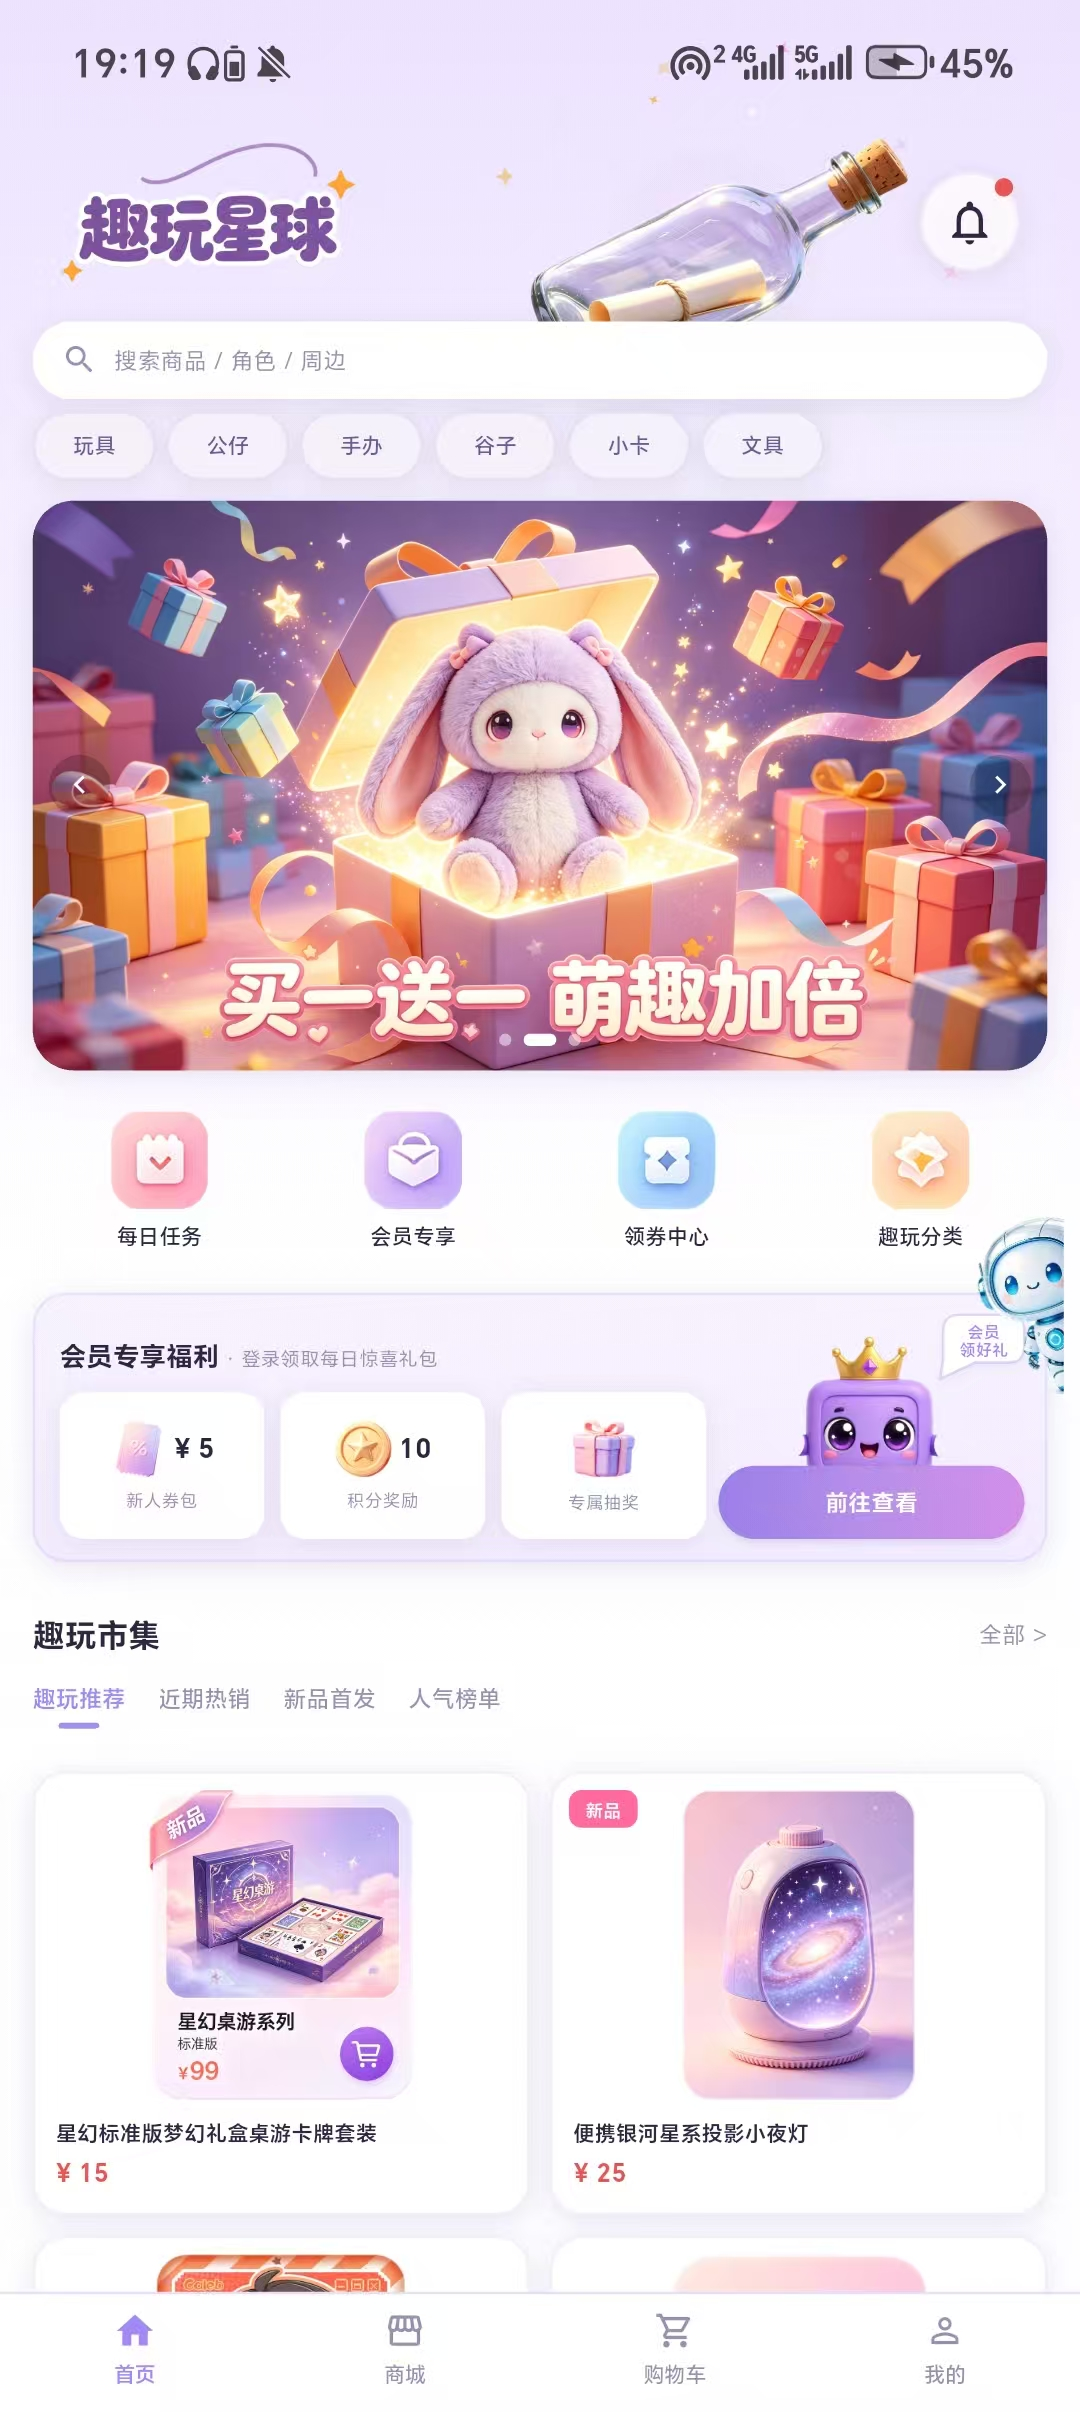
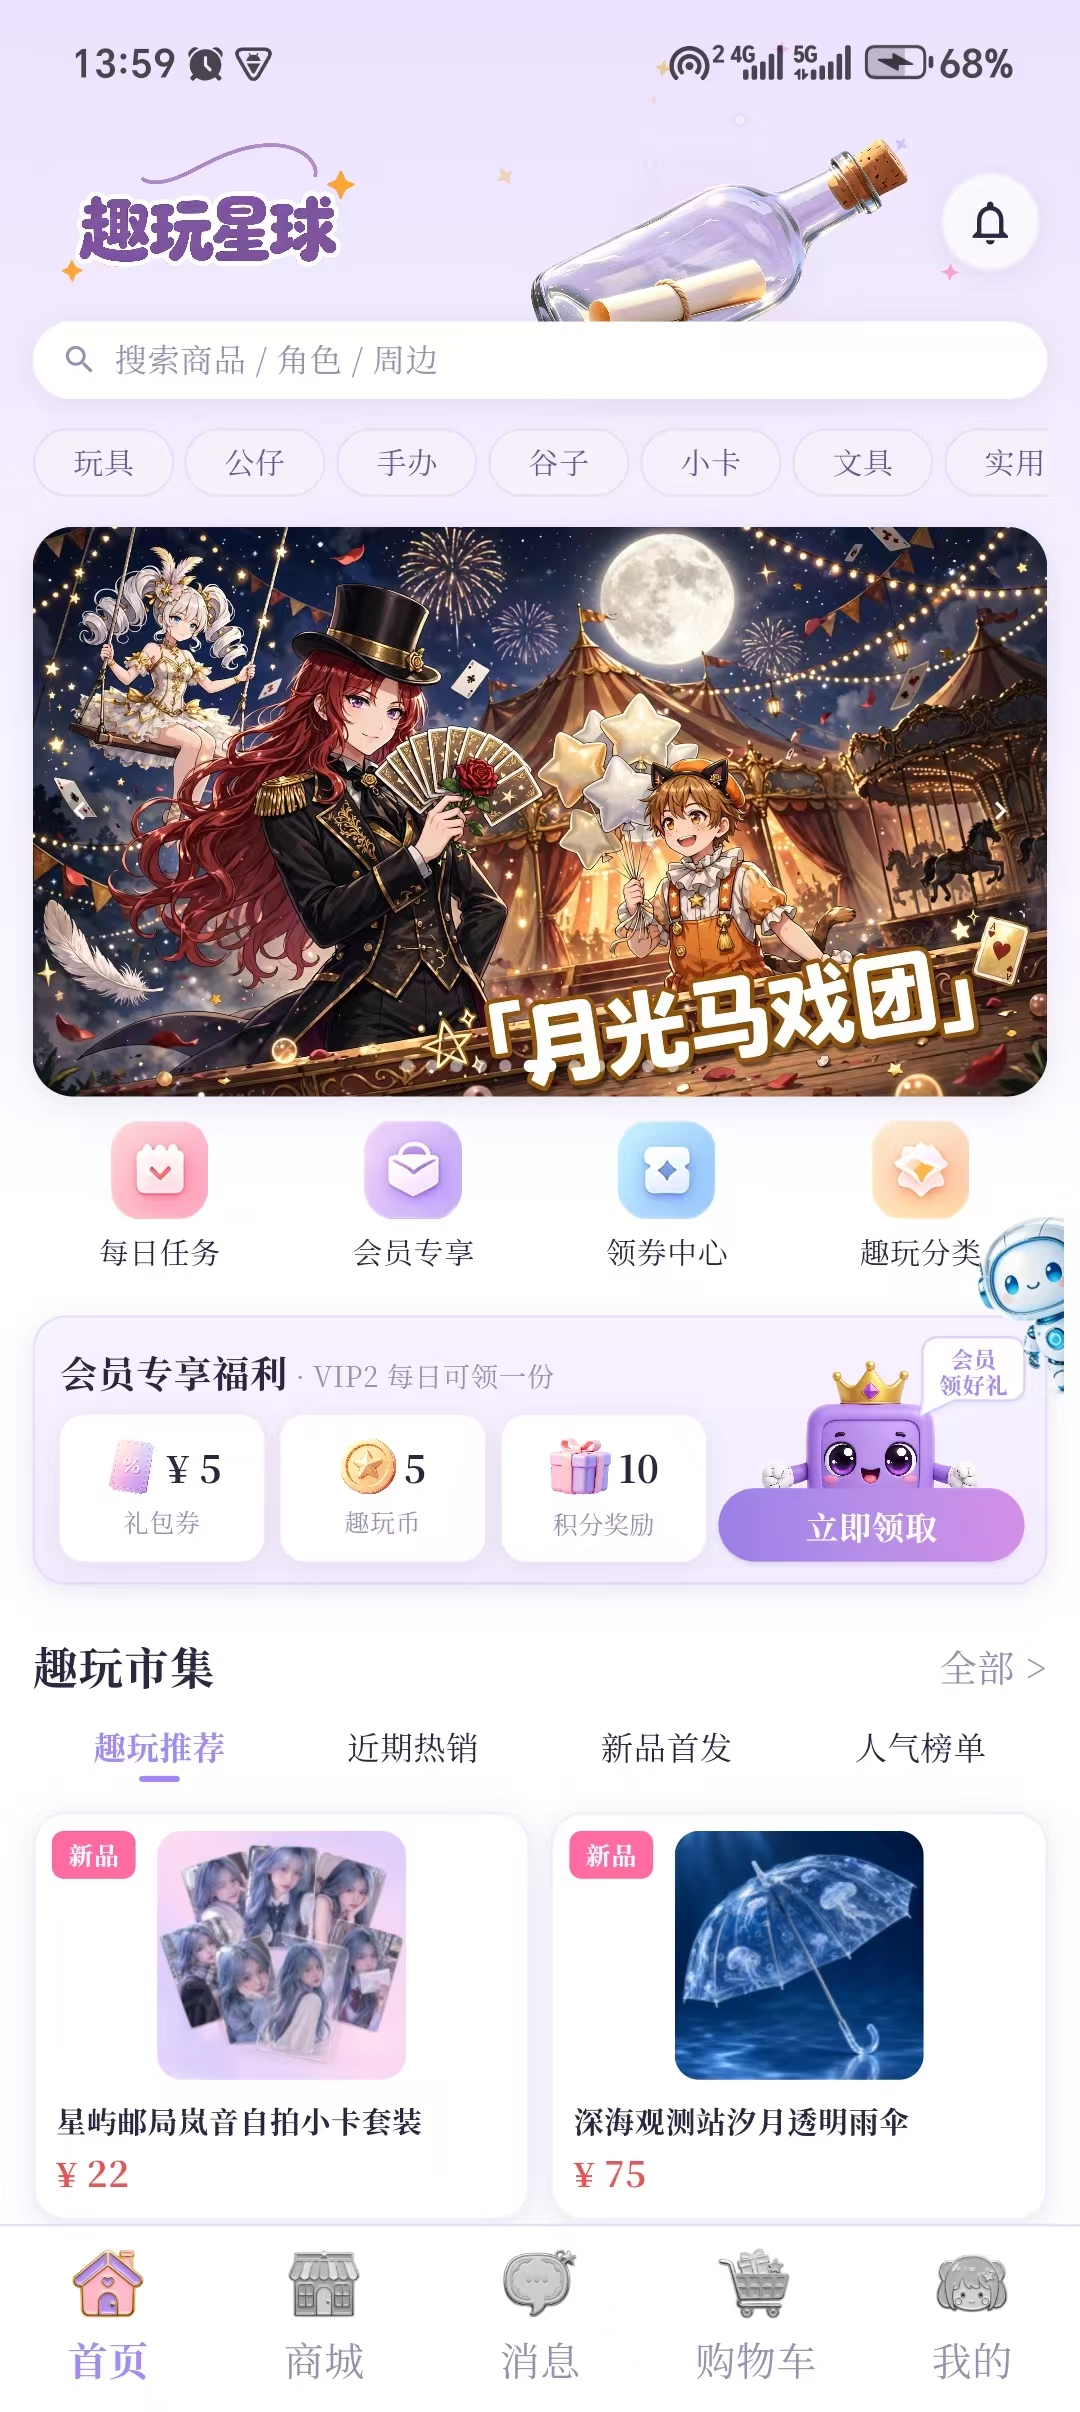
更新 README 至 v2.0.0

diff --git a/README.md b/README.md
@@ -33,7 +33,7 @@
 - **翻牌选品** — 选中一张牌后整屏翻牌落成详细卡；点「立即购买」由小豆在对话内代办下单（整理优惠券、默认地址，没地址时在对话里直接填三行小表并选择省市区），最后只留付款一步给用户点确认。
 - **统一支付面板** — 全 App 付款收口到一个面板：金额、订单号、30 分钟倒计时、微信 / 支付宝二选一、确认支付。
 - **游戏式新手引导** — 首次进入小豆时一步步带着走完真实导购流程（提问、点预算档、选牌、翻牌、演示下单），随时可跳过、奖励不作废，从「我的」页可重进；走完领 20 趣玩币。
-- **聚合消息中心** — 底部导航新增「消息」页签（首页 / 商城 / 消息 / 购物车 / 我的），订单通知、客服、社区互动、小豆待办汇总一处。
+- **聚合消息中心** — 底部导航新增「消息」页签（首页 / 商城 / 消息 / 购物车 / 我的），订单通知、客服、社区互动汇总一处。
 - **会员权益做真** — VIP2 起享 95 折（券后商品款）、积分 ×1.5、生日当天赠 50 趣玩币，均在下单 / 付款链路真实结算，不再只是展示文案。
 - **图片全链路治理** — 商品图统一 800 尺寸并转 JPG，整包体积大幅下降；全 App 选图统一改走系统相册选择器（image_picker），头像存储 1024 并支持点开看大图。
 
@@ -75,19 +75,19 @@
 
 #### 步骤 1 · 打开 Release 页面
 
-进入 GitHub 仓库，在右侧 **Releases** 区域点击最新版本 **趣玩星球 v1.0.0**。**[→ 前往 Releases 下载 APK](https://github.com/Luokey-cmd/FunPlanet/releases)**
+进入 GitHub 仓库，在右侧 **Releases** 区域点击最新版本 **趣玩星球 v2.0.0**。**[→ 前往 Releases 下载 APK](https://github.com/Luokey-cmd/FunPlanet/releases)**
 
 <img src="screenshots/001.png" alt="步骤 1：打开 Release 页面" width="1200" />
 
 #### 步骤 2 · 下载 APK
 
-在 Release 页面底部 **Assets** 区域，点击 **`FunPlanet-v1.0.0.apk`** 下载（体积以 Release 页面标注为准；新版已做图片瘦身，较早期版本明显变小）。下方两个 Source code 为 GitHub 自动附带的源码包，体验 App **只需下载 APK**。
+在 Release 页面底部 **Assets** 区域，点击 **`FunPlanet-v2.0.0.apk`** 下载（体积以 Release 页面标注为准；新版已做图片瘦身，较早期版本明显变小）。下方两个 Source code 为 GitHub 自动附带的源码包，体验 App **只需下载 APK**。
 
 <img src="screenshots/002.png" alt="步骤 2：下载 APK 安装包" width="1200" />
 
 #### 步骤 3 · 发送到手机（微信文件传输助手）
 
-在电脑上打开 **微信 → 文件传输助手**，将下载好的 `FunPlanet-v1.0.0.apk` 拖入对话框并发送。也可先发到自己的微信，再在手机上接收。
+在电脑上打开 **微信 → 文件传输助手**，将下载好的 `FunPlanet-v2.0.0.apk` 拖入对话框并发送。也可先发到自己的微信，再在手机上接收。
 
 <img src="screenshots/003.png" alt="步骤 3：通过微信文件传输助手发送 APK" width="520" />
 
@@ -99,9 +99,9 @@
 
 #### 步骤 5 · 在文件管理器中安装
 
-打开手机的 **文件管理器 → 最近**，找到 `FunPlanet-v1.0.0.apk`（来源可能显示为「微信」），点击文件开始安装。
+打开手机的 **文件管理器 → 最近**，找到 `FunPlanet-v2.0.0.apk`（来源可能显示为「微信」），点击文件开始安装。
 
-- 若文件名带有 **`.apk.1`** 后缀，请先 **重命名** 为 `FunPlanet-v1.0.0.apk` 再安装
+- 若文件名带有 **`.apk.1`** 后缀，请先 **重命名** 为 `FunPlanet-v2.0.0.apk` 再安装
 - 若提示「禁止安装未知应用」，请在系统设置中允许 **文件管理器** 或 **微信** 安装未知来源应用
 
 <img src="screenshots/005.jpg" alt="步骤 5：在文件管理器中找到并安装 APK" width="440" />
@@ -126,19 +126,36 @@
 
 底部 Tab 切换 **首页 / 商城 / 消息 / 购物车 / 我的**。首页可浏览分类、Banner、每日任务、会员福利与趣玩市集商品；趣玩市集分 **推荐 / 近期热销 / 新品 / 收藏榜** 四个页签，支持下拉刷新换一批。
 
-<img src="screenshots/007.jpg" alt="步骤 7：首页" width="340" />
+商城页可按 7 大类筛选商品，也能按系列、角色与品类搜索；消息页把交易通知、客服中心与 AI 社区互动汇总在一处，未读数同步显示在底部导航角标上。下图从左到右依次是首页、商城、消息：
+
+<img src="screenshots/007.jpg" alt="步骤 7：首页" width="32%" />
+<img src="screenshots/016.jpg" alt="商城页：分类筛选与商品列表" width="32%" />
+<img src="screenshots/017.jpg" alt="消息页：交易通知、客服与社区互动汇总" width="32%" />
 
 #### 步骤 8 · 商品详情
 
 在首页或商城点击商品，进入 **商品详情** 页，可查看多图、价格、分类标签与商品介绍；支持收藏、分享，以及 **加入购物车 / 立即购买**，也可联系客服。下单后可在订单里查看物流，收货后可评价晒图、申请售后。
 
-<img src="screenshots/015.jpg" alt="步骤 8：商品详情" width="340" />
+加入购物车后，可在购物车里调整数量、确认合计金额，再去结算；商品页还可查看真实用户评价与详细参数（规格、材质、比例、包装等）。下图从左到右依次是商品详情、购物车、评价与参数：
+
+<img src="screenshots/015.jpg" alt="步骤 8：商品详情" width="32%" />
+<img src="screenshots/018.jpg" alt="购物车：确认商品与合计金额" width="32%" />
+<img src="screenshots/019.jpg" alt="商品评价与详情参数" width="32%" />
 
 #### 步骤 9 · 小豆 AI 导购（Agent 选品）
 
 点击首页悬浮 AI 助手或进入 **小豆** 聊天页，说出想买什么（例如「挑手办」）。小豆会先问一两个问题，然后在后台做功课并亮出 **三张商品牌**：点牌面上方的预算档（如「¥100内」）可按预算重选，点中一张牌会翻牌落成详细卡。点详细卡的 **立即购买**，小豆直接在对话里代办下单，只留最后付款一步。也支持发图片找同款、语音输入（识别文字先落输入框，确认后再发）。
 
 <img src="screenshots/008.jpg" alt="步骤 9：小豆 AI 导购与翻牌选品" width="340" />
+
+首次进入小豆时还有**游戏式新手引导**：跟着发光的手指一步步走完亮牌、翻牌、代办下单全流程（演示单不会真下单），走完领 20 趣玩币；跳过不作废奖励，之后可从「我的」页重进。
+
+下图从左到右依次是翻牌、翻开后的详细卡、小豆代办整理、演示完成领奖励：
+
+<img src="screenshots/020.jpg" alt="新手引导：点一张牌，整屏翻牌" width="24%" />
+<img src="screenshots/021.jpg" alt="翻牌后的详细卡：价格、口碑标签与立即购买" width="24%" />
+<img src="screenshots/022.jpg" alt="小豆代办：整理优惠券与收货地址，最后点去下单" width="24%" />
+<img src="screenshots/023.jpg" alt="演示完成：20 趣玩币已发放到钱包" width="24%" />
 
 #### 步骤 10 · 小豆 AI 答疑
 
@@ -154,7 +171,7 @@
 
 #### 步骤 12 · AI 绘画
 
-输入描述词、选择绘画风格，点击 **开始创作**。不同风格出图差异明显，不再千篇一律；生成结果可查看大图、再次生成或 **保存到本地**（数据同步云端）。
+输入描述词、选择绘画风格，点击 **开始创作**（每次生成一张）。不同风格出图差异明显，不再千篇一律；生成结果可查看大图、再次生成或 **保存到本地**（数据同步云端）；「我的作品」支持多选批量保存到相册或批量删除。
 
 <img src="screenshots/011.jpg" alt="步骤 12：AI 绘画" width="340" />
 
@@ -186,9 +203,9 @@
 **会员与个人中心**
 - **会员体系** — VIP 等级、积分、趣玩币、每月赠券；95 折、积分 ×1.5、生日币真实结算
 - **我的** — 订单五态、地址管理（省市区三级选择）、收藏与盒柜、浏览记录、我的评价、编辑资料
-- **消息中心** — 通知、客服会话、社区互动、小豆待办聚合
+- **消息中心** — 通知、客服会话、社区互动聚合
 
-**在线客服** — 实时聊天，支持图片消息，后台客服中心统一回复
+**在线客服** — 实时聊天，支持图片与表情消息；用户与客服均可撤回自己刚发的消息（2 分钟内）并复制文字消息，后台客服中心统一回复
 
 ---
 
@@ -215,6 +232,12 @@
 App 端下单后，订单会同步至管理后台，可进行发货与状态管理。
 
 <img src="screenshots/014.png" alt="管理后台订单管理" width="1200" />
+
+### 用户管理
+
+注册用户一览，可按账号、状态与注册时间查询，查看每位用户的 VIP 等级、积分、趣玩币、订单数与累计消费。
+
+<img src="screenshots/024.png" alt="管理后台用户管理" width="1200" />
 
 ---
 
@@ -306,7 +329,7 @@ flutter pub get
 flutter run
 ```
 
-Debug 模式下 App 会自动尝试连接本机 / 模拟器后端（见 `lib/config/api_config.dart`）。真机调试推荐用仓库自带脚本走局域网直连：`scripts\use-wifi-dev.ps1`（自动探测电脑局域网 IP 并写入本地配置，该配置文件不会提交到仓库）。
+Debug 模式下 App 会自动尝试连接本机 / 模拟器后端（见 `lib/config/api_config.dart`）。真机调试推荐走局域网直连：把电脑的局域网 IP 手动写入 `lib/config/local_api_host.dart` 的预留位置即可（该文件填入 IP 后不要提交，仓库中保持为空）。
 
 ### 3. 管理后台（可选）
 
